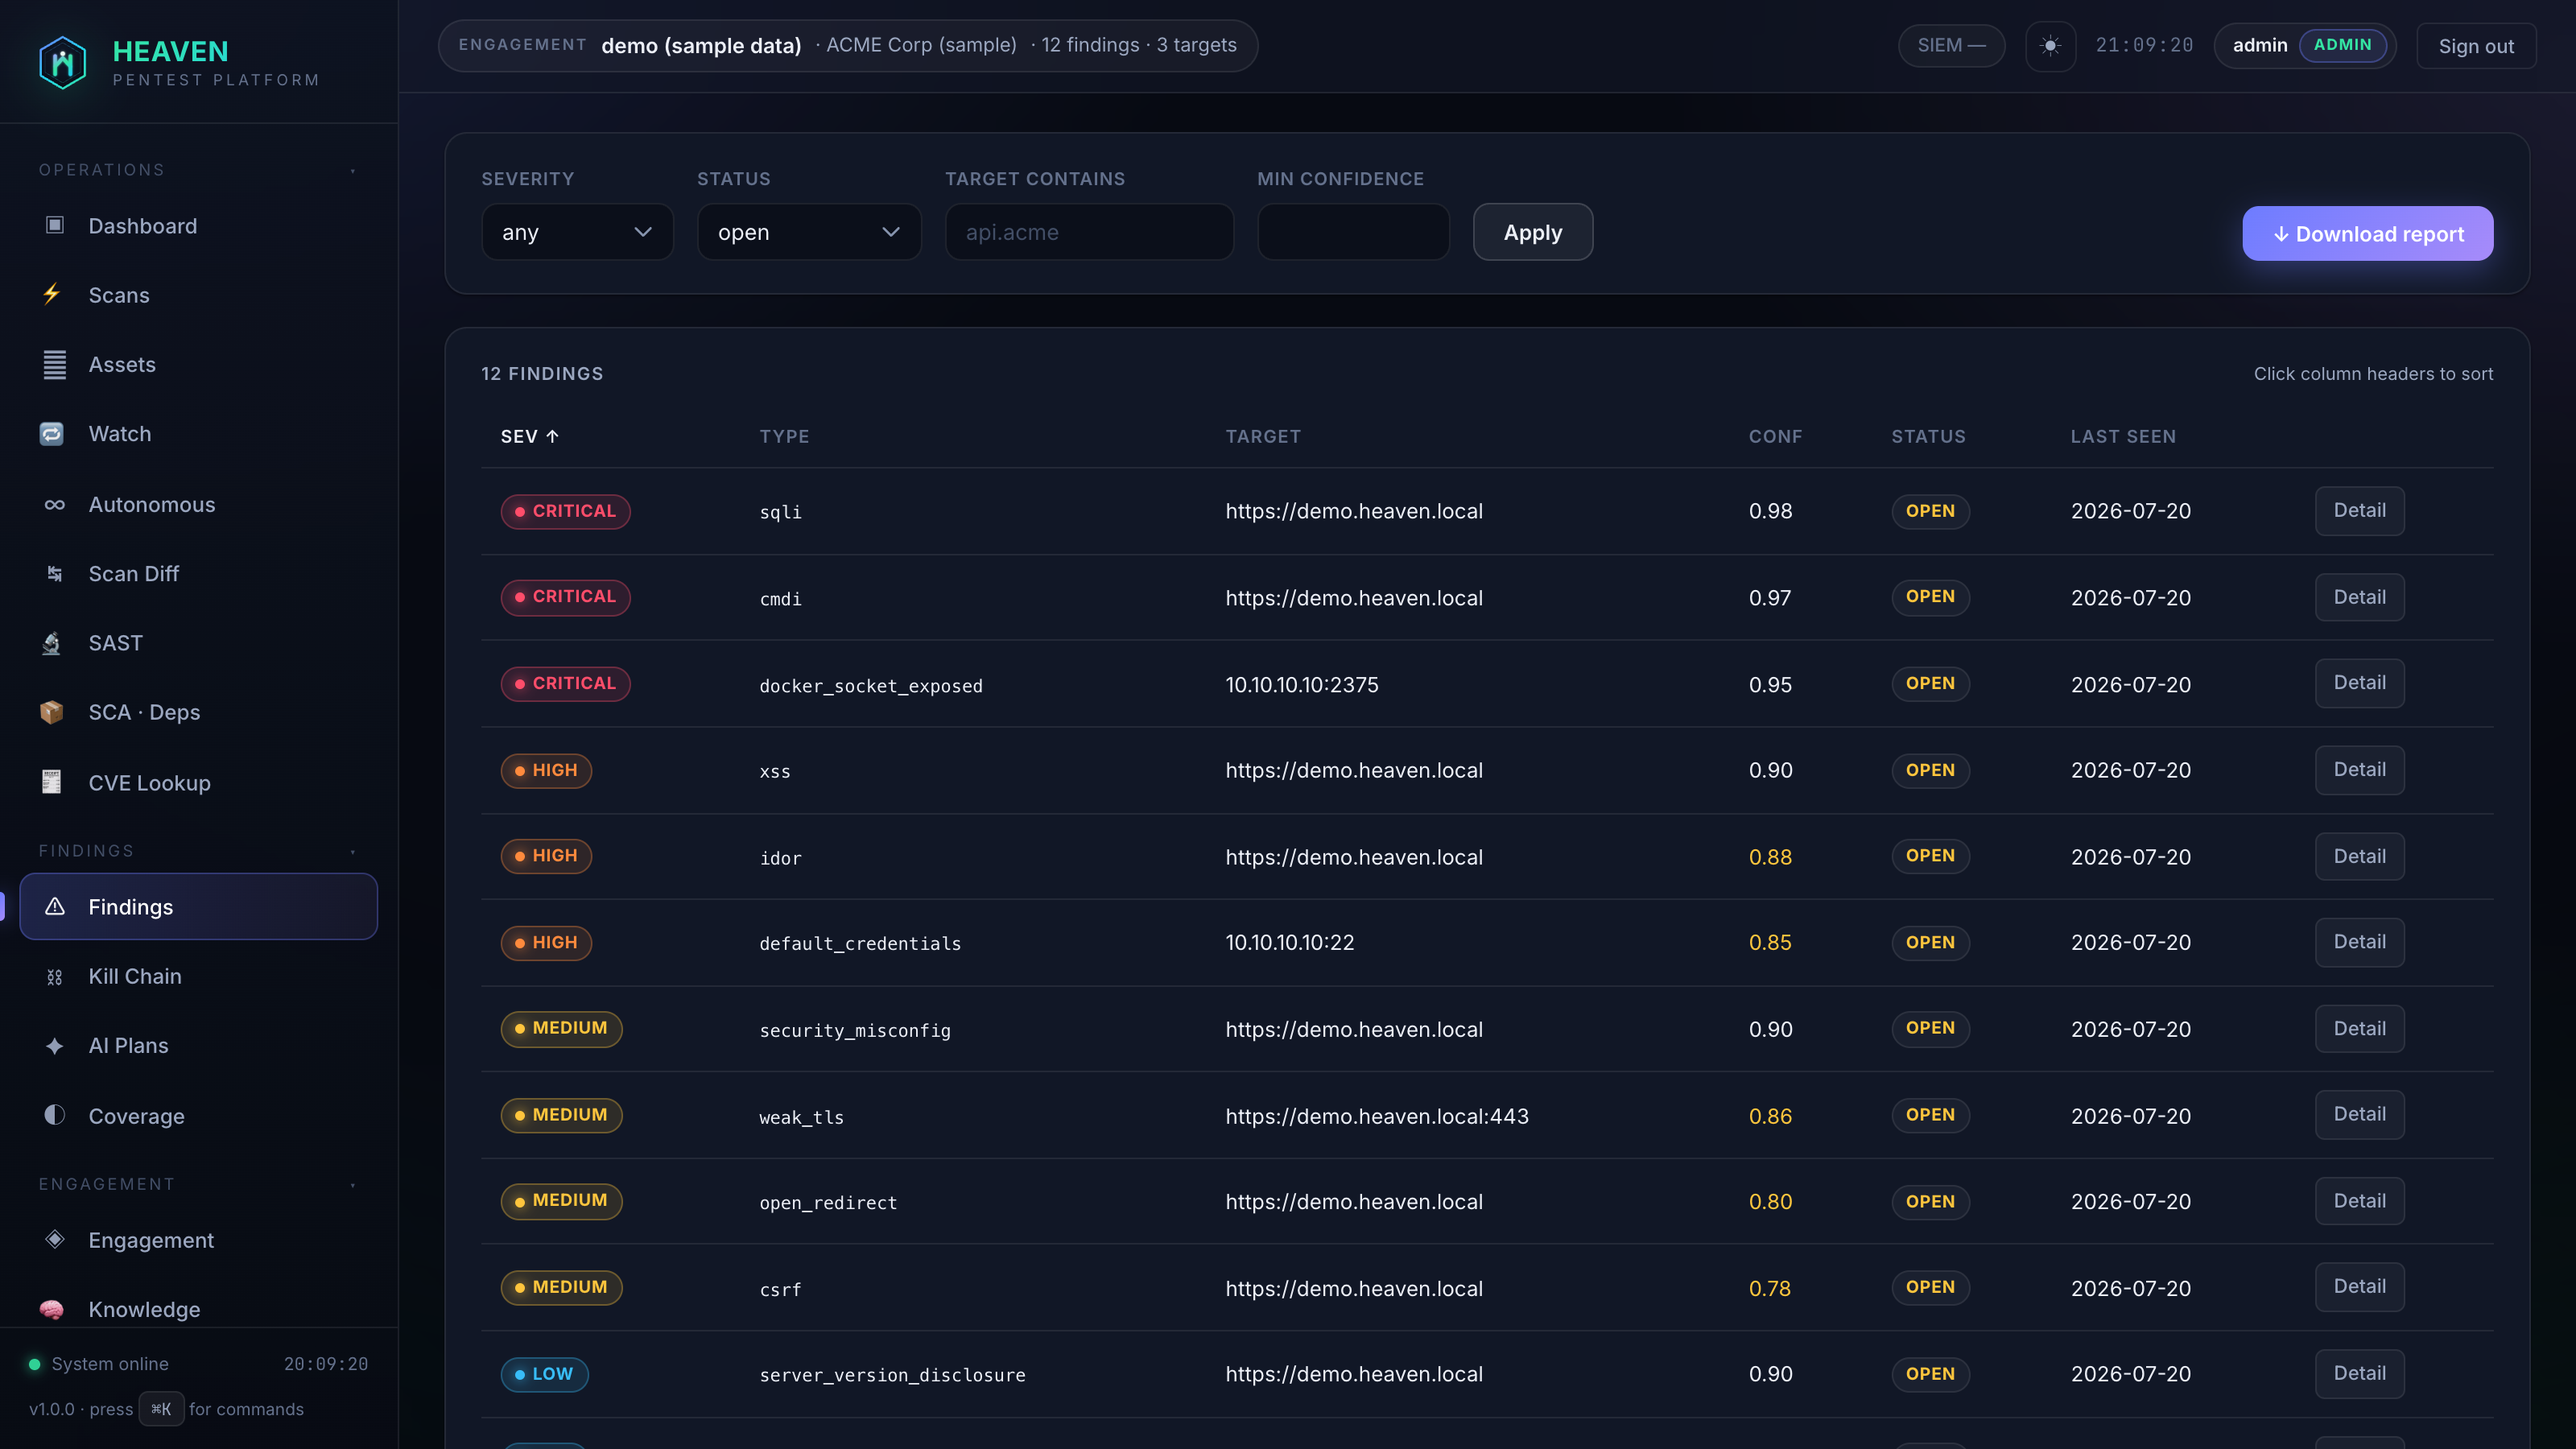
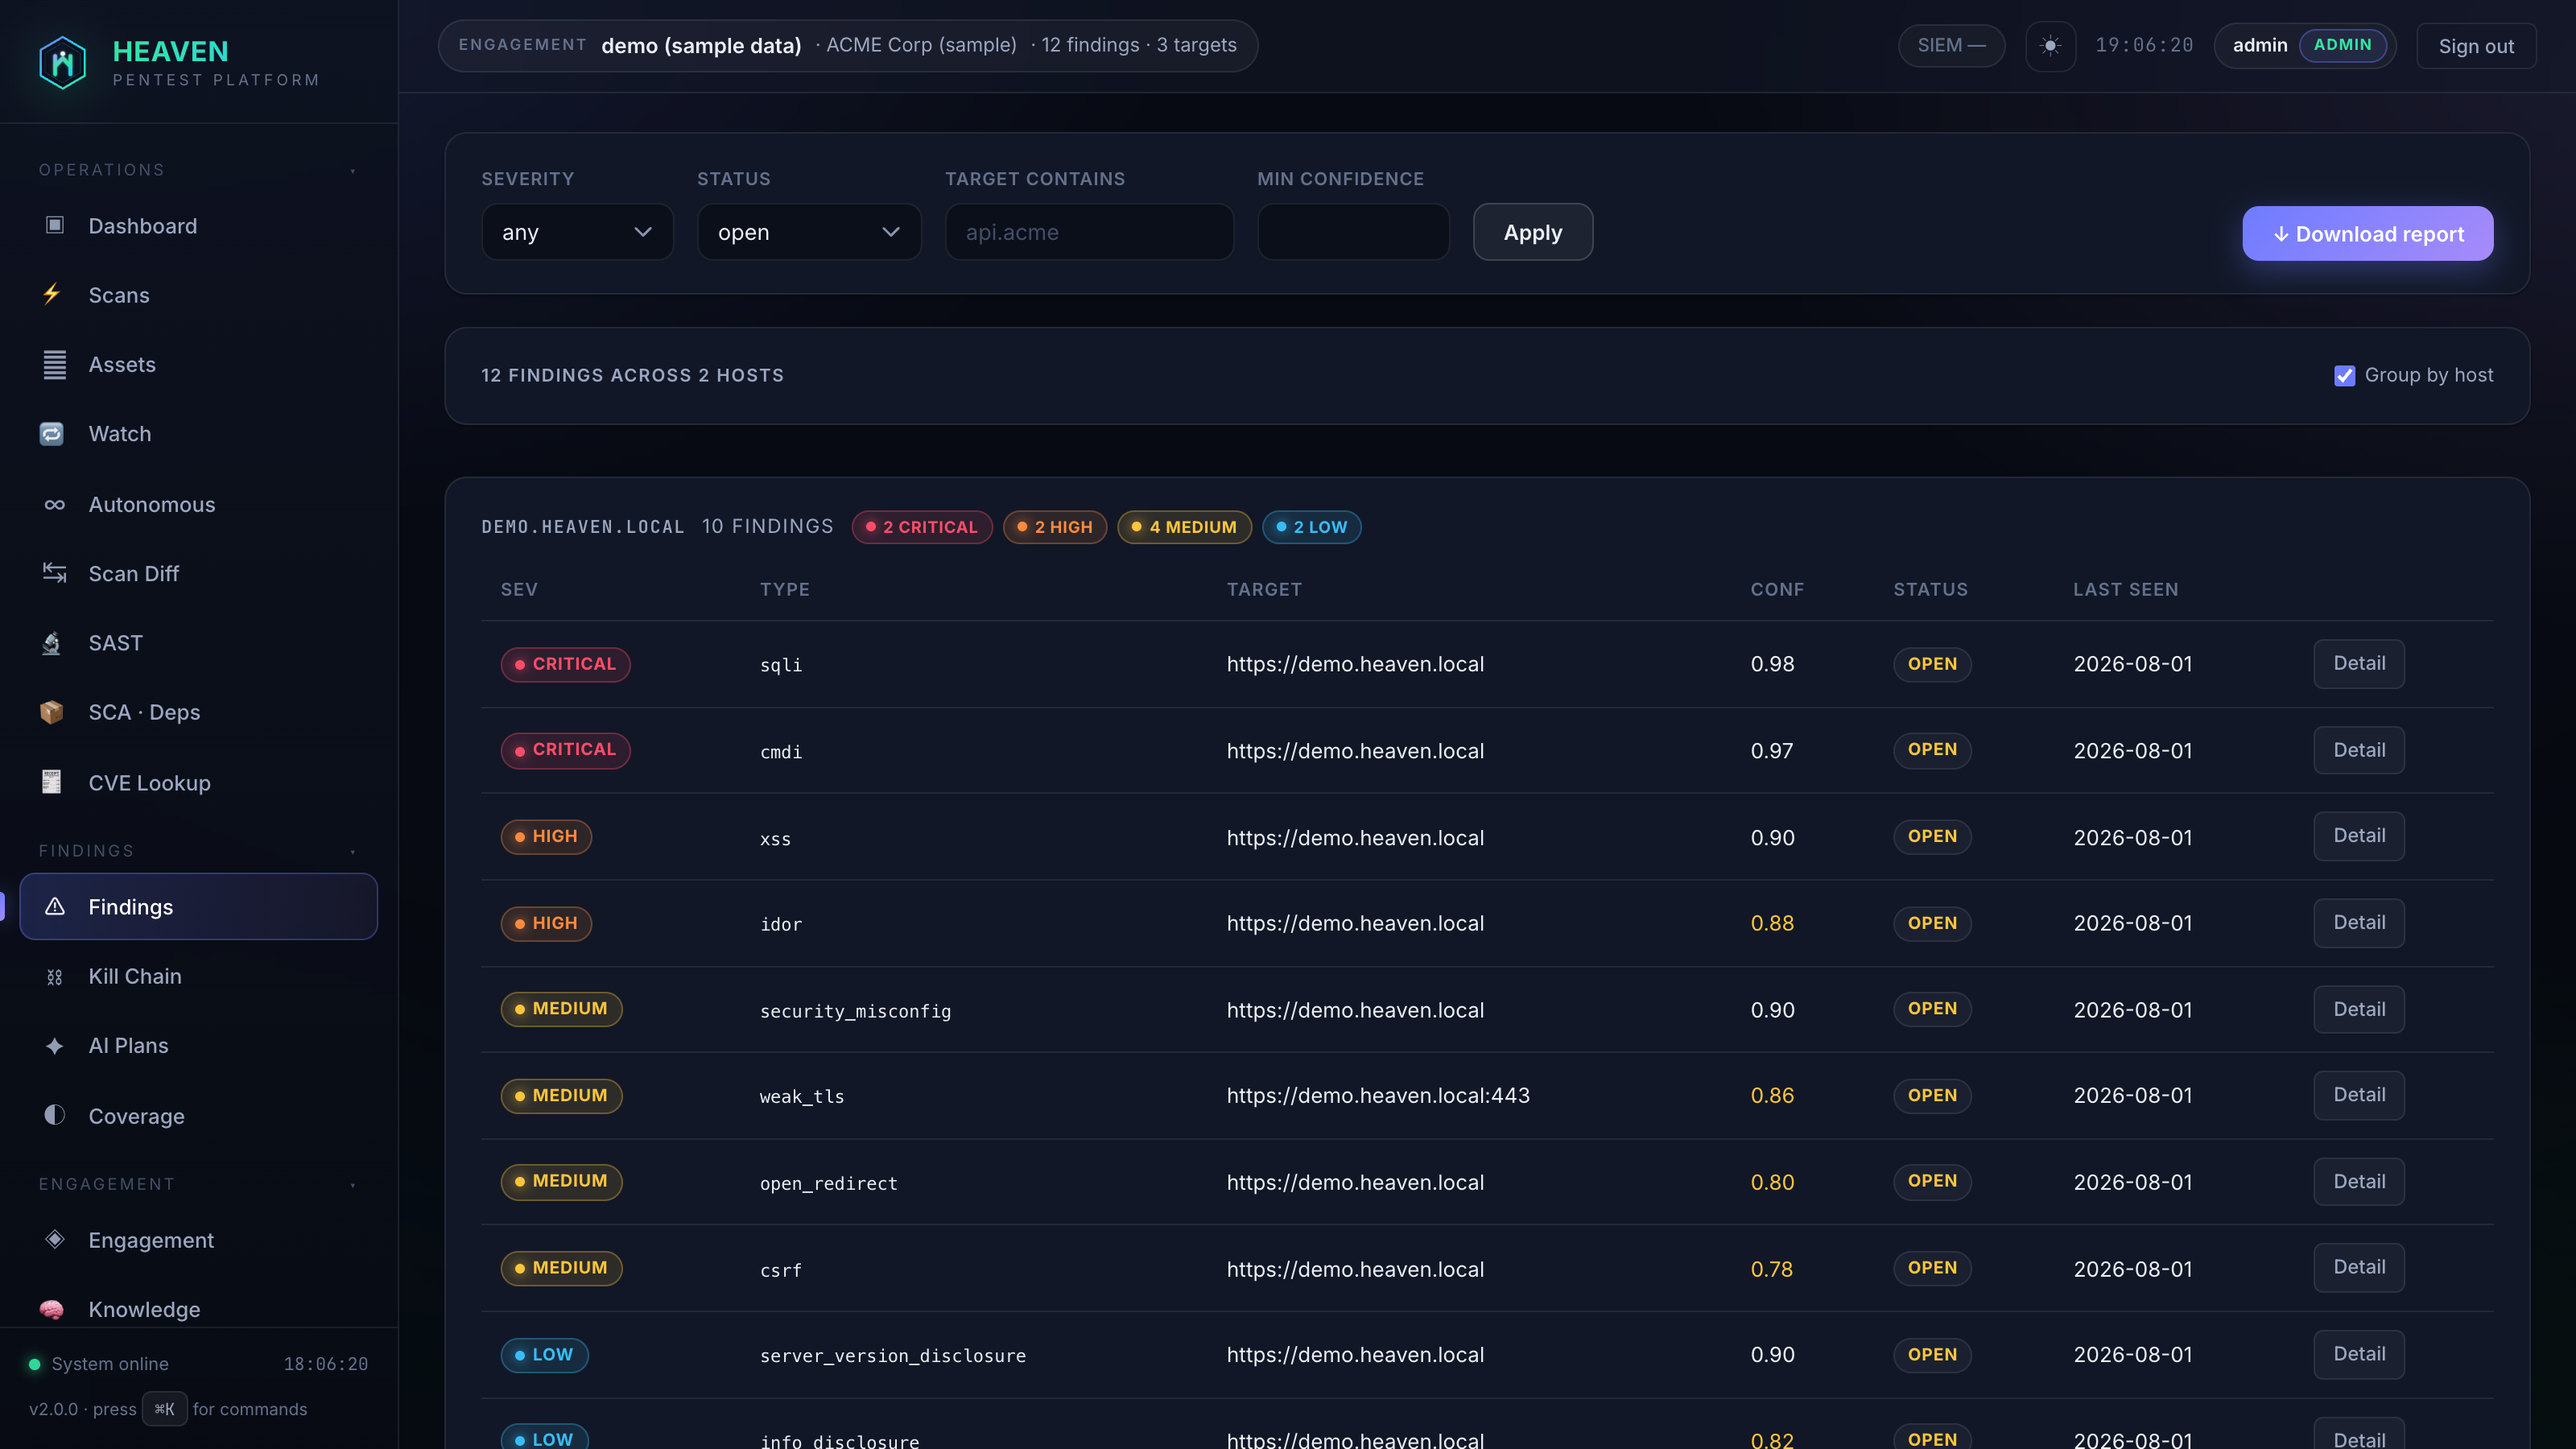
chore: bump version to 2.0.0 and update related documentation
- Updated version numbers across various files to reflect the new major release (2.0.0).
- Modified release workflow to correctly identify prerelease tags.
- Enhanced .gitignore to exclude additional development dependencies.
- Expanded CHANGELOG with details about the new features and improvements in version 2.0.0.
- Updated README and demo documentation to reflect the new version.
- Adjusted Helm chart and values files for the new version.
- Updated CLI and UI components to display the new version.
- Added new scripts for regenerating screenshots and capturing terminal output.
- Included new dependencies for screenshot generation tooling.

diff --git a/heaven-ui/src/components/Sidebar.jsx b/heaven-ui/src/components/Sidebar.jsx
@@ -158,7 +158,7 @@ export default function Sidebar() {
           </span>
         </div>
         <div style={{ marginTop: 8, fontSize: 10.5, color: 'var(--text-2)' }}>
-          v1.0.0 · press <kbd>⌘K</kbd> for commands
+          v2.0.0 · press <kbd>⌘K</kbd> for commands
         </div>
       </div>
     </aside>

diff --git a/scripts/screenshots/capture_terminal.py b/scripts/screenshots/capture_terminal.py
@@ -1,0 +1,56 @@
+#!/usr/bin/env python3
+"""Render HEAVEN's REAL startup banner + CLI dashboard through a Rich recording
+console and export each as an SVG (rasterised to PNG by svg2png.mjs).
+
+The captured version string is whatever ``heaven.__version__`` currently is, so
+this stays correct across releases with no edits. Run under the project venv:
+
+    OUT=docs/screenshots ./venv/bin/python scripts/screenshots/capture_terminal.py
+
+Outputs <OUT>/banner.svg and <OUT>/dashboard.svg.
+"""
+from __future__ import annotations
+
+import os
+import sys
+import tempfile
+from pathlib import Path
+
+REPO = Path(__file__).resolve().parents[2]
+OUT = Path(os.environ.get("OUT", REPO / "docs" / "screenshots"))
+OUT.mkdir(parents=True, exist_ok=True)
+
+# Isolate: never touch the user's real data/.env while importing the CLI.
+os.environ.setdefault("HEAVEN_DATA_DIR", tempfile.mkdtemp(prefix="heaven-shots-"))
+
+from rich.console import Console  # noqa: E402
+
+import heaven  # noqa: E402
+import heaven.utils.logger as hlog  # noqa: E402
+
+print(f"heaven.__version__ = {heaven.__version__}", file=sys.stderr)
+
+
+def _record(width: int) -> Console:
+    """A Rich console that records output for save_svg and prints nowhere."""
+    return Console(record=True, width=width, theme=hlog.HEAVEN_THEME,
+                   file=open(os.devnull, "w"))
+
+
+# ── Startup banner (gradient box) — banner interior is 66 cols → console 72 ──
+rec = _record(72)
+hlog.console = rec
+hlog.print_banner()
+rec.save_svg(str(OUT / "banner.svg"), title="")
+print(f"wrote {OUT / 'banner.svg'}", file=sys.stderr)
+
+# ── CLI dashboard (command centre) — wide layout → console 118 ──
+import heaven.cli._dashboard as dash  # noqa: E402
+
+# Stub the active-engagement lookup so no stale "Active engagement" line leaks in.
+dash.get_current_engagement = lambda: None
+rec2 = _record(118)
+hlog.console = rec2
+dash.show_dashboard()
+rec2.save_svg(str(OUT / "dashboard.svg"), title="")
+print(f"wrote {OUT / 'dashboard.svg'}", file=sys.stderr)

diff --git a/heaven/devsecops/aggregator.py b/heaven/devsecops/aggregator.py
@@ -21,8 +21,8 @@ def compile_json_report(scan_data: dict, output_path: Optional[str] = None) -> d
     report = {
         "schema_version": "1.0",
         "tool": {
-            "name": "HEAVEN", 
-            "version": "1.0.0",
+            "name": "HEAVEN",
+            "version": "2.0.0",
             "author": "Nisarg Chasmawala (Shroff)"
         },
         "scan_id": scan_data.get("scan_id", str(uuid4())),
@@ -61,7 +61,7 @@ def export_sarif(scan_data: dict, output_path: str = "heaven-results.sarif") -> 
             "tool": {
                 "driver": {
                     "name": "HEAVEN",
-                    "version": "1.0.0",
+                    "version": "2.0.0",
                     "organization": "Nisarg Chasmawala (Shroff)",
                     "informationUri": "https://github.com/heaven-security",
                     "rules": [],

diff --git a/heaven/ml/risk_model.py b/heaven/ml/risk_model.py
@@ -90,7 +90,7 @@ class HeavenRiskModel:
         # (data/models/cvss_regressor.joblib from `heaven train-model`); the file
         # itself is never loaded directly.
         self.model_path = model_path or Path("models/risk_model_v2.joblib")
-        self.version = "1.0.0"
+        self.version = "2.0.0"
         self._is_trained = False
         self._regressor = None
         self._feature_names: list[str] = []

diff --git a/heaven/cli/train.py b/heaven/cli/train.py
@@ -18,7 +18,7 @@ from heaven.cli._helpers import _print
 # both the release asset and this digest (or pass --sha256 / --no-verify).
 _MODEL_REPO = "nishu2402/HEAVEN-Autonomous-Penetration-Testing"
 _MODEL_ASSET = "NVD_model.pkl"
-_MODEL_DEFAULT_TAG = "v1.0.0"
+_MODEL_DEFAULT_TAG = "v2.0.0"
[1 lines of base64/hex data omitted]
 _MODEL_SIZE_BYTES = 50238433
 

diff --git a/heaven/__init__.py b/heaven/__init__.py
@@ -1,7 +1,7 @@
 # HEAVEN — Autonomous Pen-Testing Framework
 # Core package initialisation
 
-__version__ = "1.0.0"
+__version__ = "2.0.0"
 __codename__ = "HEAVEN"
 __tagline__ = "Autonomous Penetration-Testing Platform"
 

diff --git a/scripts/screenshots/README.md b/scripts/screenshots/README.md
@@ -1,0 +1,47 @@
+# Regenerating the README screenshots
+
+Everything in [`docs/screenshots/`](../../docs/screenshots) is generated from the
+**live application**, so the images stay truthful across releases (the version
+string, module list, and UI are whatever the code currently produces — nothing is
+mocked up in an image editor).
+
+There are two kinds of image and one command that produces all of them.
+
+| Image | Source |
+|-------|--------|
+| `Heaven_Autonomous_Penetration_Testing_Platform.png` | real startup banner (`heaven.utils.logger.print_banner`) |
+| `Heaven_cli.png` | real CLI dashboard (`heaven.cli._dashboard.show_dashboard`) |
+| `web-app_dashboard.png`, `findings_dashboard.png`, `kill_chain_dashboard.png`, `scanning_dashboard.png`, `reports_dashboard.png` | the live web UI, demo-seeded |
+
+## One command
+
+```bash
+./scripts/screenshots/regenerate.sh
+```
+
+This runs entirely against an **isolated, throwaway data dir and a random admin
+password** — it never touches your real `./data` or `./.env`. It builds the web
+UI, seeds demo data, starts a local backend, captures all seven images straight
+into `docs/screenshots/`, and tears the backend down on exit.
+
+## Requirements
+
+- The project virtualenv at `./venv` (or set `VENV_PY` / `HEAVEN_BIN`).
+- Node.js. The first run does `npm install` here to fetch `puppeteer-core`
+  (dev-only; kept out of the app and the web-UI build).
+- A local Chrome or Chromium. Auto-detected on macOS/Linux; override with
+  `CHROME=/path/to/chrome`.
+
+## How it works (and the gotchas it encodes)
+
+- **Terminal captures** render the real Rich output to an SVG
+  (`capture_terminal.py`), then rasterise it with headless Chrome
+  (`svg2png.mjs`). A `Menlo` monospace fallback is injected so the box-drawing
+  characters stay aligned even if the Fira Code webfont can't be fetched.
+- **Web captures** (`capture_web.mjs`) log in by setting each field through the
+  **native value setter** (the inputs are React-controlled, so `page.type` drops
+  characters) and navigate **client-side** by clicking sidebar links (the JWT is
+  in memory, so a full `page.goto` would log the session out). The 3D dashboard
+  gets extra settle time and WebGL flags (`swiftshader`) for headless rendering.
+
+To run a single stage manually, see the env vars at the top of each script.

diff --git a/CHANGELOG.md b/CHANGELOG.md
@@ -9,6 +9,22 @@ and this project adheres to [Semantic Versioning](https://semver.org/spec/v2.0.0
 
 ## [Unreleased]
 
+_Nothing yet — changes for the next release will be listed here._
+
+## [2.0.0] — 2026-08-01
+
+HEAVEN's first **major** release, consolidating everything built on top of the
+1.0.0 foundation into a hardened 2.0 line. Highlights: the web risk taxonomy
+moved to the **OWASP Top 10:2025** model platform-wide; scoring was overhauled
+with **per-finding contextual CVSS** (Temporal + Environmental), **CVSS v4.0**
+support, and severity ⇄ CVSS reconciliation so a label and its score can never
+contradict; the web UI migrated to **React 19**, clearing the `react-router`
+advisory at the source; and new capabilities landed — a standalone **DNS
+enumeration** tool, authenticated **cloud IAM auditing** (AWS / GCP / Azure), a
+network-reachable **wireless configuration review**, and **OT / IoT framework**
+scoring — alongside a sustained false-positive-reduction effort and reproducibly
+green CI. The complete, itemised history follows.
+
 ### Added
 
 - **DNS enumeration tool (`heaven dns`) — records + subdomains surfaced in the

diff --git a/README.md b/README.md
@@ -90,7 +90,7 @@ It runs three ways from the **same engagement dataset**:
 - **REST + WebSocket API** — 64 RBAC-protected routes for automation and integration.
 
 <div align="center">
-<img width="760" alt="HEAVEN — Autonomous Penetration Testing Platform v1.0.0" src="docs/screenshots/Heaven_Autonomous_Penetration_Testing_Platform.png" />
+<img width="760" alt="HEAVEN — Autonomous Penetration Testing Platform v2.0.0" src="docs/screenshots/Heaven_Autonomous_Penetration_Testing_Platform.png" />
 </div>
 
 ---
@@ -396,7 +396,7 @@ deterministic heuristic (or pass `--no-llm`).
 51 commands. Run `heaven <command> --help` for full options.
 
 <div align="center">
-<img width="820" alt="heaven CLI dashboard — module status + live command reference (v1.0.0)" src="docs/screenshots/Heaven_cli.png" />
+<img width="820" alt="heaven CLI dashboard — module status + live command reference (v2.0.0)" src="docs/screenshots/Heaven_cli.png" />
 </div>
 
 <div align="center">

diff --git a/docs/DEMO.md b/docs/DEMO.md
@@ -17,7 +17,7 @@ clear
 
 The branded banner appears — the **ASCENDANT AEGIS** ASCII logo, the
 `Find It · Confirm It · Prove It · Report It` tagline, and the
-`v1.0.0 · Recon → Exploit → Post-Ex → Report` line — followed by the
+`v2.0.0 · Recon → Exploit → Post-Ex → Report` line — followed by the
 platform-info table (version, wired integrations, active engagement).
 This is the "moment of trust" — the viewer knows they're not watching a
 toy. (`heaven --version` prints just the version string if you want the
